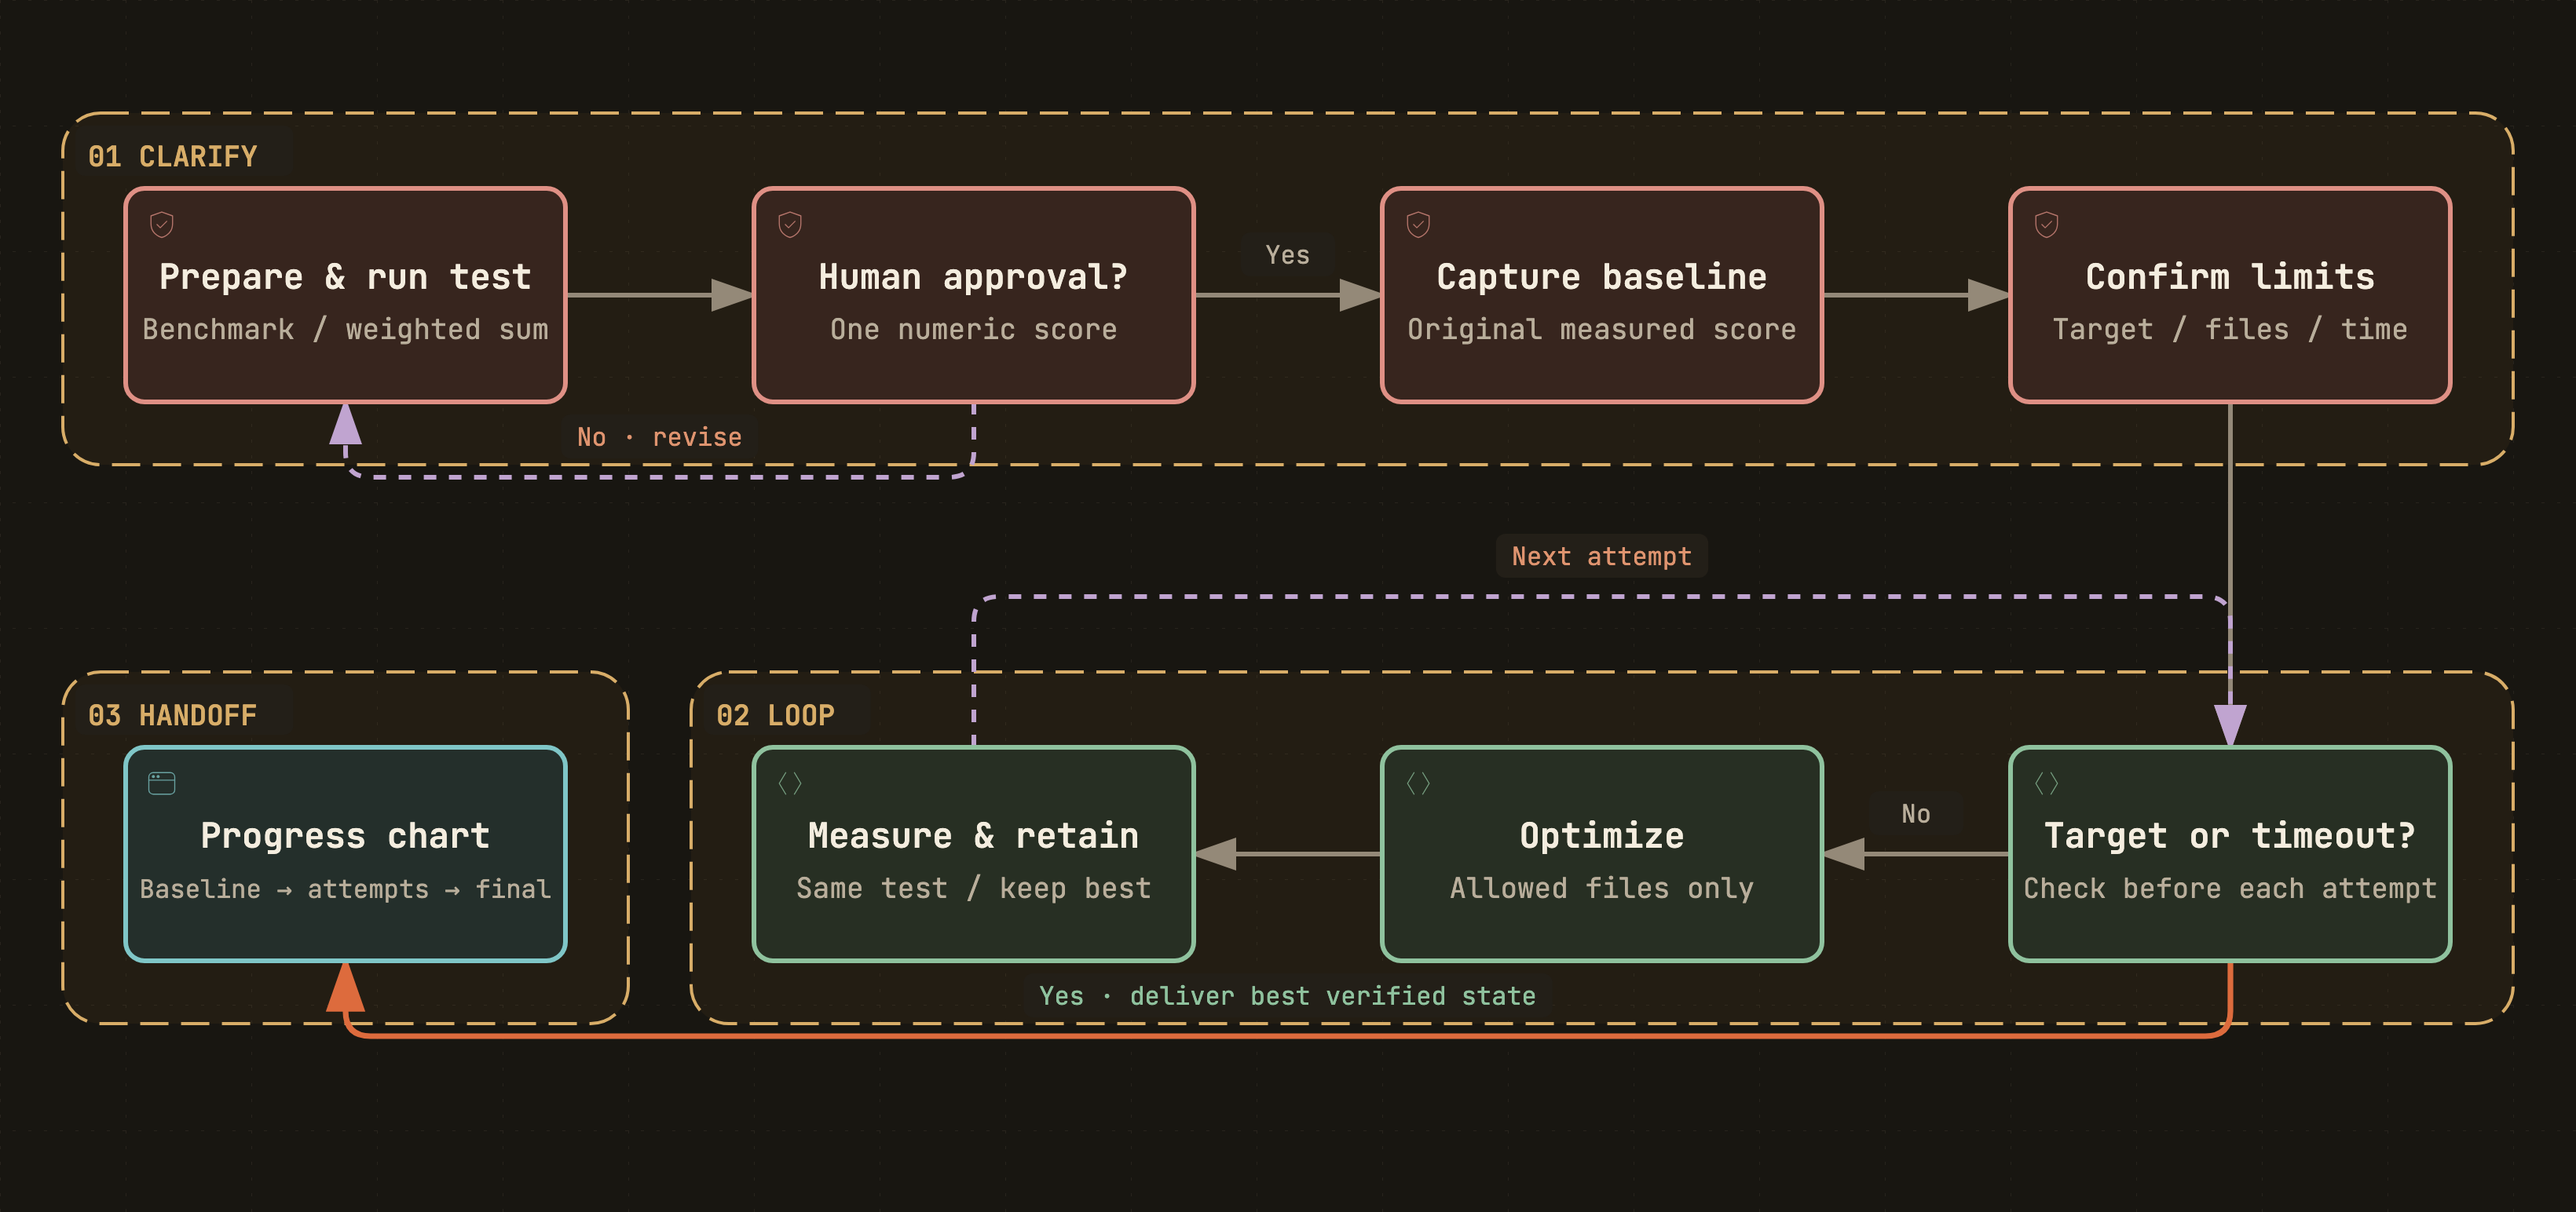
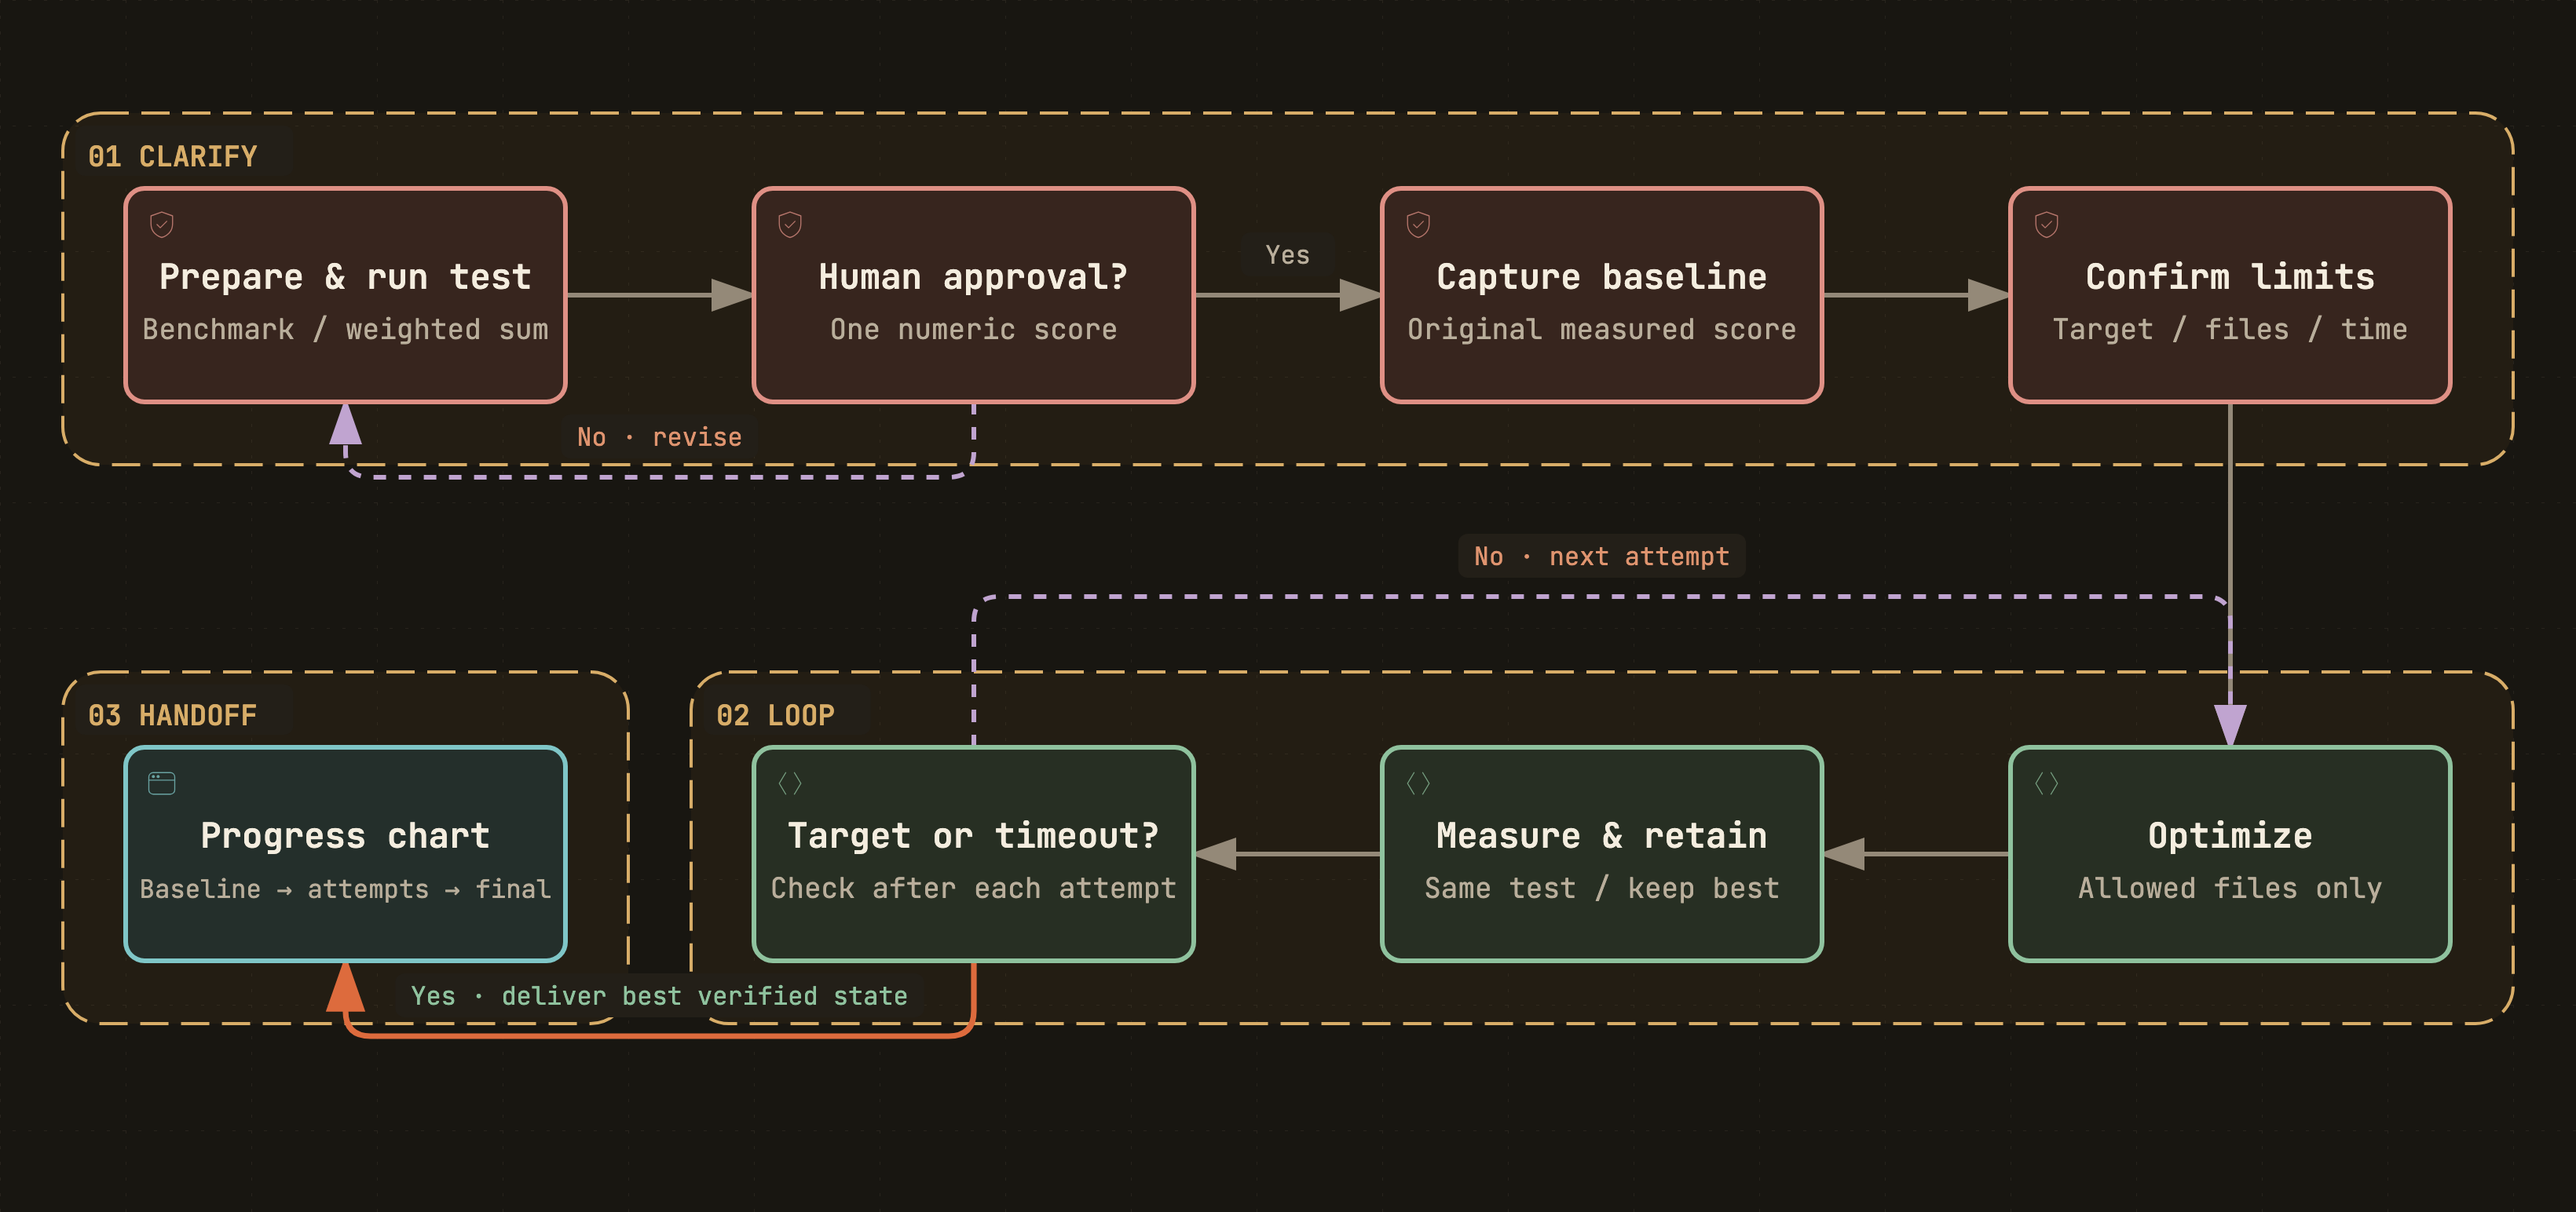
fix: check optimization exit conditions after each attempt
Generated with [Devin](https://devin.ai)

diff --git a/autodev/references/loop.md b/autodev/references/loop.md
@@ -25,12 +25,16 @@ Once the complete agreed set passes, verify the delivered state and enter [Hando
 
 Keep the original baseline separate from the best verified candidate. Initialize the best candidate to baseline.
 
-1. Check the target and remaining time before each attempt. Bound long-running commands by the remaining budget.
-2. Modify only allowed implementation files, keeping a recoverable best-state snapshot.
-3. Run the same benchmark with the agreed inputs, repetitions, aggregation, and formula.
-4. Check file boundaries and measurement identities. Crashes, invalid outputs, or tampering invalidate the result regardless of its reported score.
-5. Keep a verified improvement under the agreed direction and variability treatment; otherwise restore only that attempt's changes to the best valid state.
-6. Record the outcome and repeat until **the target is met or the time budget expires**.
+Use a **do-while** loop: execute an attempt before evaluating the normal exit conditions.
+
+1. Modify only allowed implementation files, keeping a recoverable best-state snapshot.
+2. Run the same benchmark with the agreed inputs, repetitions, aggregation, and formula.
+3. Check file boundaries and measurement identities. Crashes, invalid outputs, or tampering invalidate the result regardless of its reported score.
+4. Keep a verified improvement under the agreed direction and variability treatment; otherwise restore only that attempt's changes to the best valid state.
+5. Record the outcome, including invalid or rejected attempts.
+6. Check whether **the target is met or the time budget has expired**. If neither holds, return to step 1; otherwise enter Handoff with the best verified state.
+
+Bound commands by the remaining wall-clock budget throughout each attempt. Post-testing does not authorize work after the deadline; interrupt an in-flight attempt when time runs out. If no execution time remains at entry, report budget exhaustion rather than starting unauthorized work.
 
 Do not add convergence, rejection-count, or attempt-count exits. Do not extend the budget silently. At timeout, discard any unverified in-flight candidate and retain the best verified one. If no improvement was verified, retain baseline and say so.
 

diff --git a/CONTRIBUTING.md b/CONTRIBUTING.md
@@ -42,7 +42,7 @@ The README diagrams are generated with [Archify](https://github.com/tt-a1i/archi
 
 The process maps use Archify's `architecture` schema v1 and grid layout, not its workflow-lane template. This provides explicit canvas bounds without unused columns or full-width empty stage lanes. `components` are process steps, `connections` are directed control flow, and the named regions group stages, not deployment infrastructure. Keep `quality_profile: showcase` and identical topology and geometry within each language pair.
 
-The overview has exactly three nodes and two arrows. Detail maps use a compact two-row path: Clarify reads left to right, then Loop and Handoff follow the arrows right to left. Three numbered stage regions remain distinct. Dashed return paths show review and implementation feedback; solid paths show progression and delivery. The optimization stop check precedes each attempt, with a direct exit to the chart for an already-met target or exhausted budget.
+The overview has exactly three nodes and two arrows. Detail maps use a compact two-row path: Clarify reads left to right, then Loop and Handoff follow the arrows right to left. Three numbered stage regions remain distinct. Dashed return paths show review and implementation feedback; solid paths show progression and delivery. The optimization loop is post-tested (do-while): limits → optimize → measure and retain → stop check. A negative decision returns to optimization; target reached or time exhausted leads to the chart. Do not introduce a limits-to-stop-check shortcut.
 
 This renderer does not support workflow `semanticChecks`. Check directed connections explicitly: approval precedes baseline; optimization limits follow baseline; each detail map has a review cycle and an execution cycle; only the required table/chart is terminal. Do not treat successful geometry validation as a semantic check.
 

diff --git a/autodev/references/handoff.md b/autodev/references/handoff.md
@@ -33,7 +33,7 @@ The chart must:
 
 A best-so-far line may accompany the measured attempts, but label it as derived retained state. Do not hide regressions by plotting only favorable samples, smooth away failures, or join results from different test versions.
 
-Generate the chart from the recorded history using the project's available plotting/export tools; provide an image the human can view and retain the source data. If no attempts were needed or none produced a valid new score, show the real baseline and annotate that outcome instead of fabricating progress. If chart generation is blocked, preserve the data and report the handoff as incomplete rather than silently falling back to a table.
+Generate the chart from the recorded history using the project's available plotting/export tools; provide an image the human can view and retain the source data. If execution was blocked before any attempt or no attempt produced a valid new score, show the real baseline and annotate that outcome instead of fabricating progress. If chart generation is blocked, preserve the data and report the handoff as incomplete rather than silently falling back to a table.
 
 Verify the delivered candidate within the reserved time. If only a prior measurement is available, reuse it only when source state, test version, and conditions match, and explicitly say it was not freshly rerun. Otherwise mark verification incomplete.
 

diff --git a/README.md b/README.md
@@ -64,7 +64,7 @@ Test maintenance belongs **inside the human-in-the-loop review**, not after test
 
 [Diagram source](docs/diagrams/autodev.optimization.json)
 
-**One test, one score:** agree on an executable benchmark or a fixed weighted sum. Follow the solid arrows from test preparation through baseline and limits; the dashed paths repeat review or optimization. The stop check precedes each attempt, allowing an already-satisfied target to go straight to Handoff. Bound each run by the remaining wall-clock budget.
+**One test, one score:** agree on an executable benchmark or a fixed weighted sum. Follow the solid arrows from test preparation through baseline and limits; the dashed paths repeat review or optimization. Loop uses **do-while** order: optimize, measure and retain the best verified state, then check the target and deadline. Repeat only if neither exit condition holds. Bound each run by the remaining wall-clock budget.
 
 Agree on the workload, unit, direction, measurement method, and any weights or normalization before baseline. Multiple benchmark components still produce **one score**, not separate optimization targets. Do not change the ruler during Loop.
 

diff --git a/README_ZH.md b/README_ZH.md
@@ -64,7 +64,7 @@ Clarify 不只是问问题。查代码、维护测试、试运行和测量 basel
 
 [流程图源文件](docs/diagrams/autodev.optimization.zh.json)
 
-**一项 test、一个分数：** 确认可执行的 benchmark 或固定加权和。沿实线从测试准备走到 baseline 与限制确认，沿虚线反复审阅或优化。每次尝试前先检查停止条件，baseline 已达标时可直接进入 Handoff；每次运行都受剩余时间预算约束。
+**一项 test、一个分数：** 确认可执行的 benchmark 或固定加权和。沿实线从测试准备走到 baseline 与限制确认，沿虚线反复审阅或优化。Loop 采用 **do-while** 顺序：先优化、测量并保留已验证的最佳结果，再判断是否达标或时间耗尽；均未满足才继续下一轮。每次运行仍受剩余时间预算约束。
 
 工作负载、单位、改善方向、测量方法，以及可能涉及的权重和归一化方式，都在 baseline 之前确认。多个 benchmark 分项仍只产生**一个分数**，不是多个独立优化目标。Loop 中不能换尺子。
 

diff --git a/autodev/references/clarify-optimization.md b/autodev/references/clarify-optimization.md
@@ -39,6 +39,6 @@ Reuse values already supplied by the human, but do not silently invent missing p
 
 Record hashes or equivalent identities for the benchmark and measurement inputs. Changing the ruler, reducing work, or warming an undeclared cache is not an implementation improvement. A change in the agreed measurement requires renewed Clarify and a new baseline.
 
-If baseline already meets the confirmed target, no optimization attempt is necessary. Handoff still requires a chart that honestly shows the baseline result and zero attempts; do not invent a trajectory.
+Once the agreement is ready, enter the do-while Loop with an optimization attempt, then evaluate the target and deadline after measurement and retention. A baseline that already meets the target does not bypass that first attempt. The agreed wall-clock budget remains a hard limit.
 
 **Exit:** one executable test is approved, baseline is recorded, and target, editable files, and time budget are confirmed. Continue to [Loop: optimization](loop.md#performance-optimization).

diff --git a/autodev/SKILL.md b/autodev/SKILL.md
@@ -41,7 +41,7 @@ Use decisions already supplied; do not impose a question count or assume approva
 
 ## Loop
 
-Change the implementation within the agreed boundaries and run the same test. Feature work ends only when all agreed tests pass. Optimization ends at the target or time limit, retaining the best valid measured state and recording every attempt for the final chart.
+Change the implementation within the agreed boundaries and run the same test. Feature work ends only when all agreed tests pass. Optimization uses do-while order: optimize, measure and retain the best valid state, then check the target or time limit. Record every attempt for the final chart; do not bypass the first attempt merely because baseline meets the target.
 
 Do not weaken tests, shrink workloads, alter benchmark weights, or change the measuring conditions to manufacture progress. Changes to intent, test meaning, or permitted scope return to Clarify and require a comparable new baseline.
 
